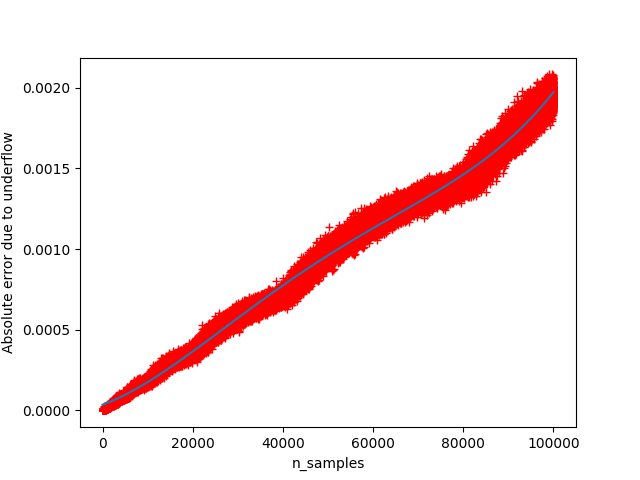
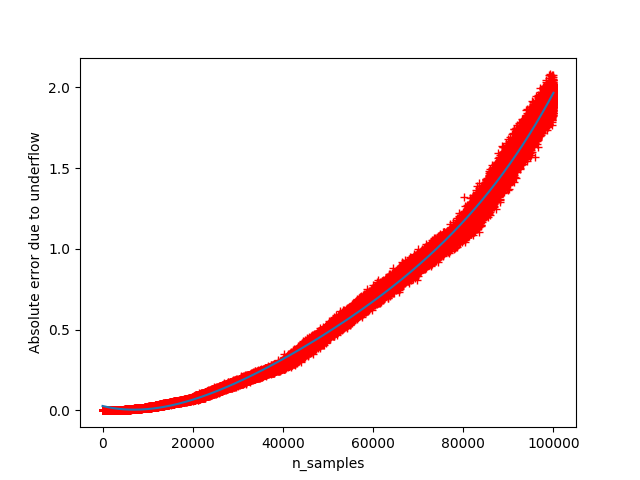
updated neflix_regression to use multiprocessing api

diff --git a/scientific_computing/underflow.py b/scientific_computing/underflow.py
@@ -14,24 +14,25 @@ def ProcessInput(j):
 			quant.append(data[i])
 		sum_dataset1 += data[i]
 	quant = np.array(quant)
-	return np.sum(quant), (100 * np.sum(quant))/j
+	return np.sum(quant), (100 * np.sum(quant))/sum_dataset1
 
 if __name__ == "__main__":
 	errors = []
 	n_features = 100000
 	quant = np.array(Parallel(n_jobs=multiprocessing.cpu_count())(delayed(ProcessInput)(i) for i in range(1, n_features)))
+	print(np.sum(quant))
 	plt.figure(0)
 	plt.plot(quant[:,0], 'r+')
 	p = np.poly1d(np.polyfit(np.arange(1, n_features, 1), quant[:,0], 4))
 	x = np.arange(1, n_features, 1)
 	plt.plot(x, p(x))
 	plt.xlabel('n_samples')
-	plt.ylabel('Percentage error due to underflow')
+	plt.ylabel('Absolute error due to underflow')
 	plt.figure(1)
 	plt.plot(quant[:,1], 'r+')
 	p = np.poly1d(np.polyfit(np.arange(1, n_features, 1), quant[:,1], 4))
 	plt.plot(x, p(x))
 	plt.xlabel('n_samples')
-	plt.ylabel('Absolute error due to underflow')
+	plt.ylabel('Percentage error due to underflow')
 	plt.show()
 	print(n_features * np.sum(quant[:,0]))
